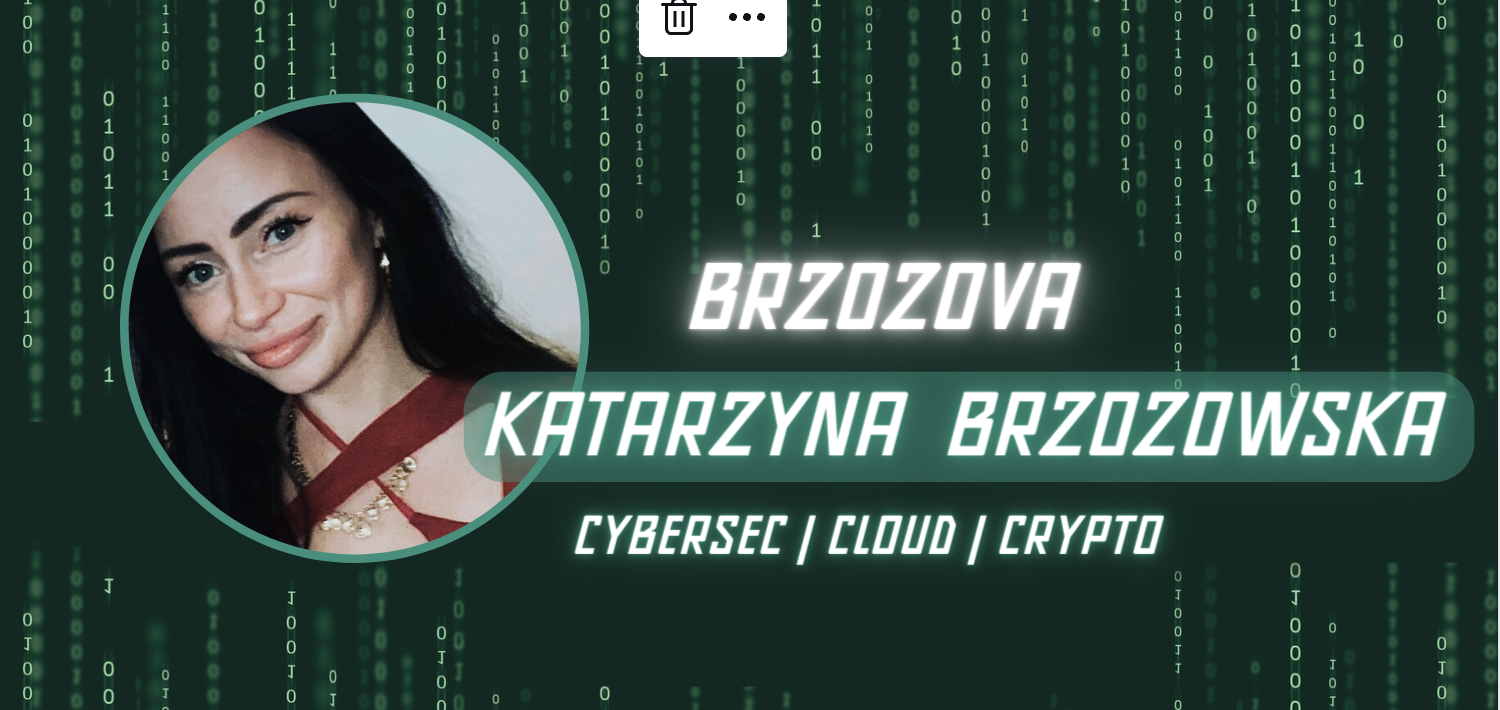
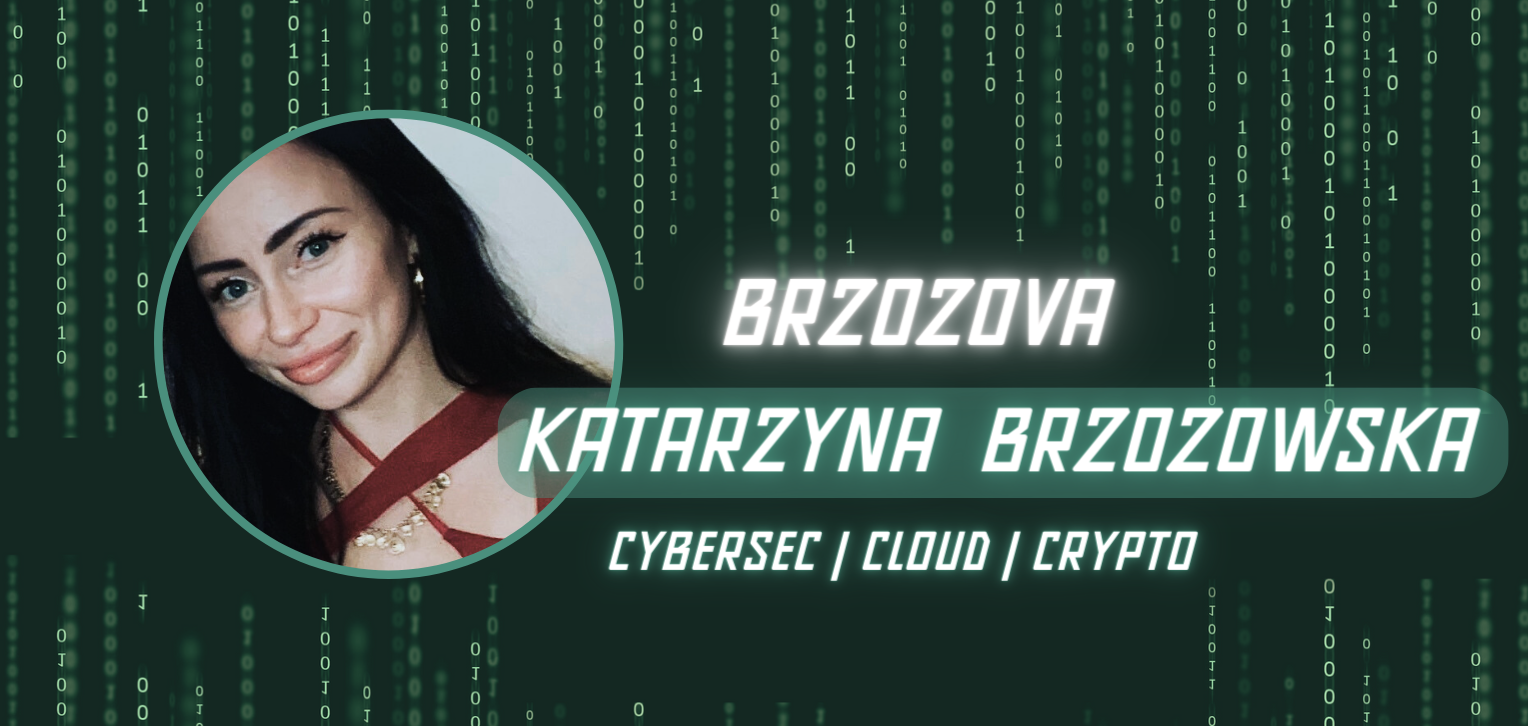
Upload new image

diff --git a/index.md b/index.md
@@ -1,6 +1,5 @@
 
-<img src="brzozova-banner.png" alt="Brzozova" width="800" height="500">
-<br/>
+<img src="brzozova-banner.png" alt="Brzozova" width="800" height="350">
 
 # BIO
 
